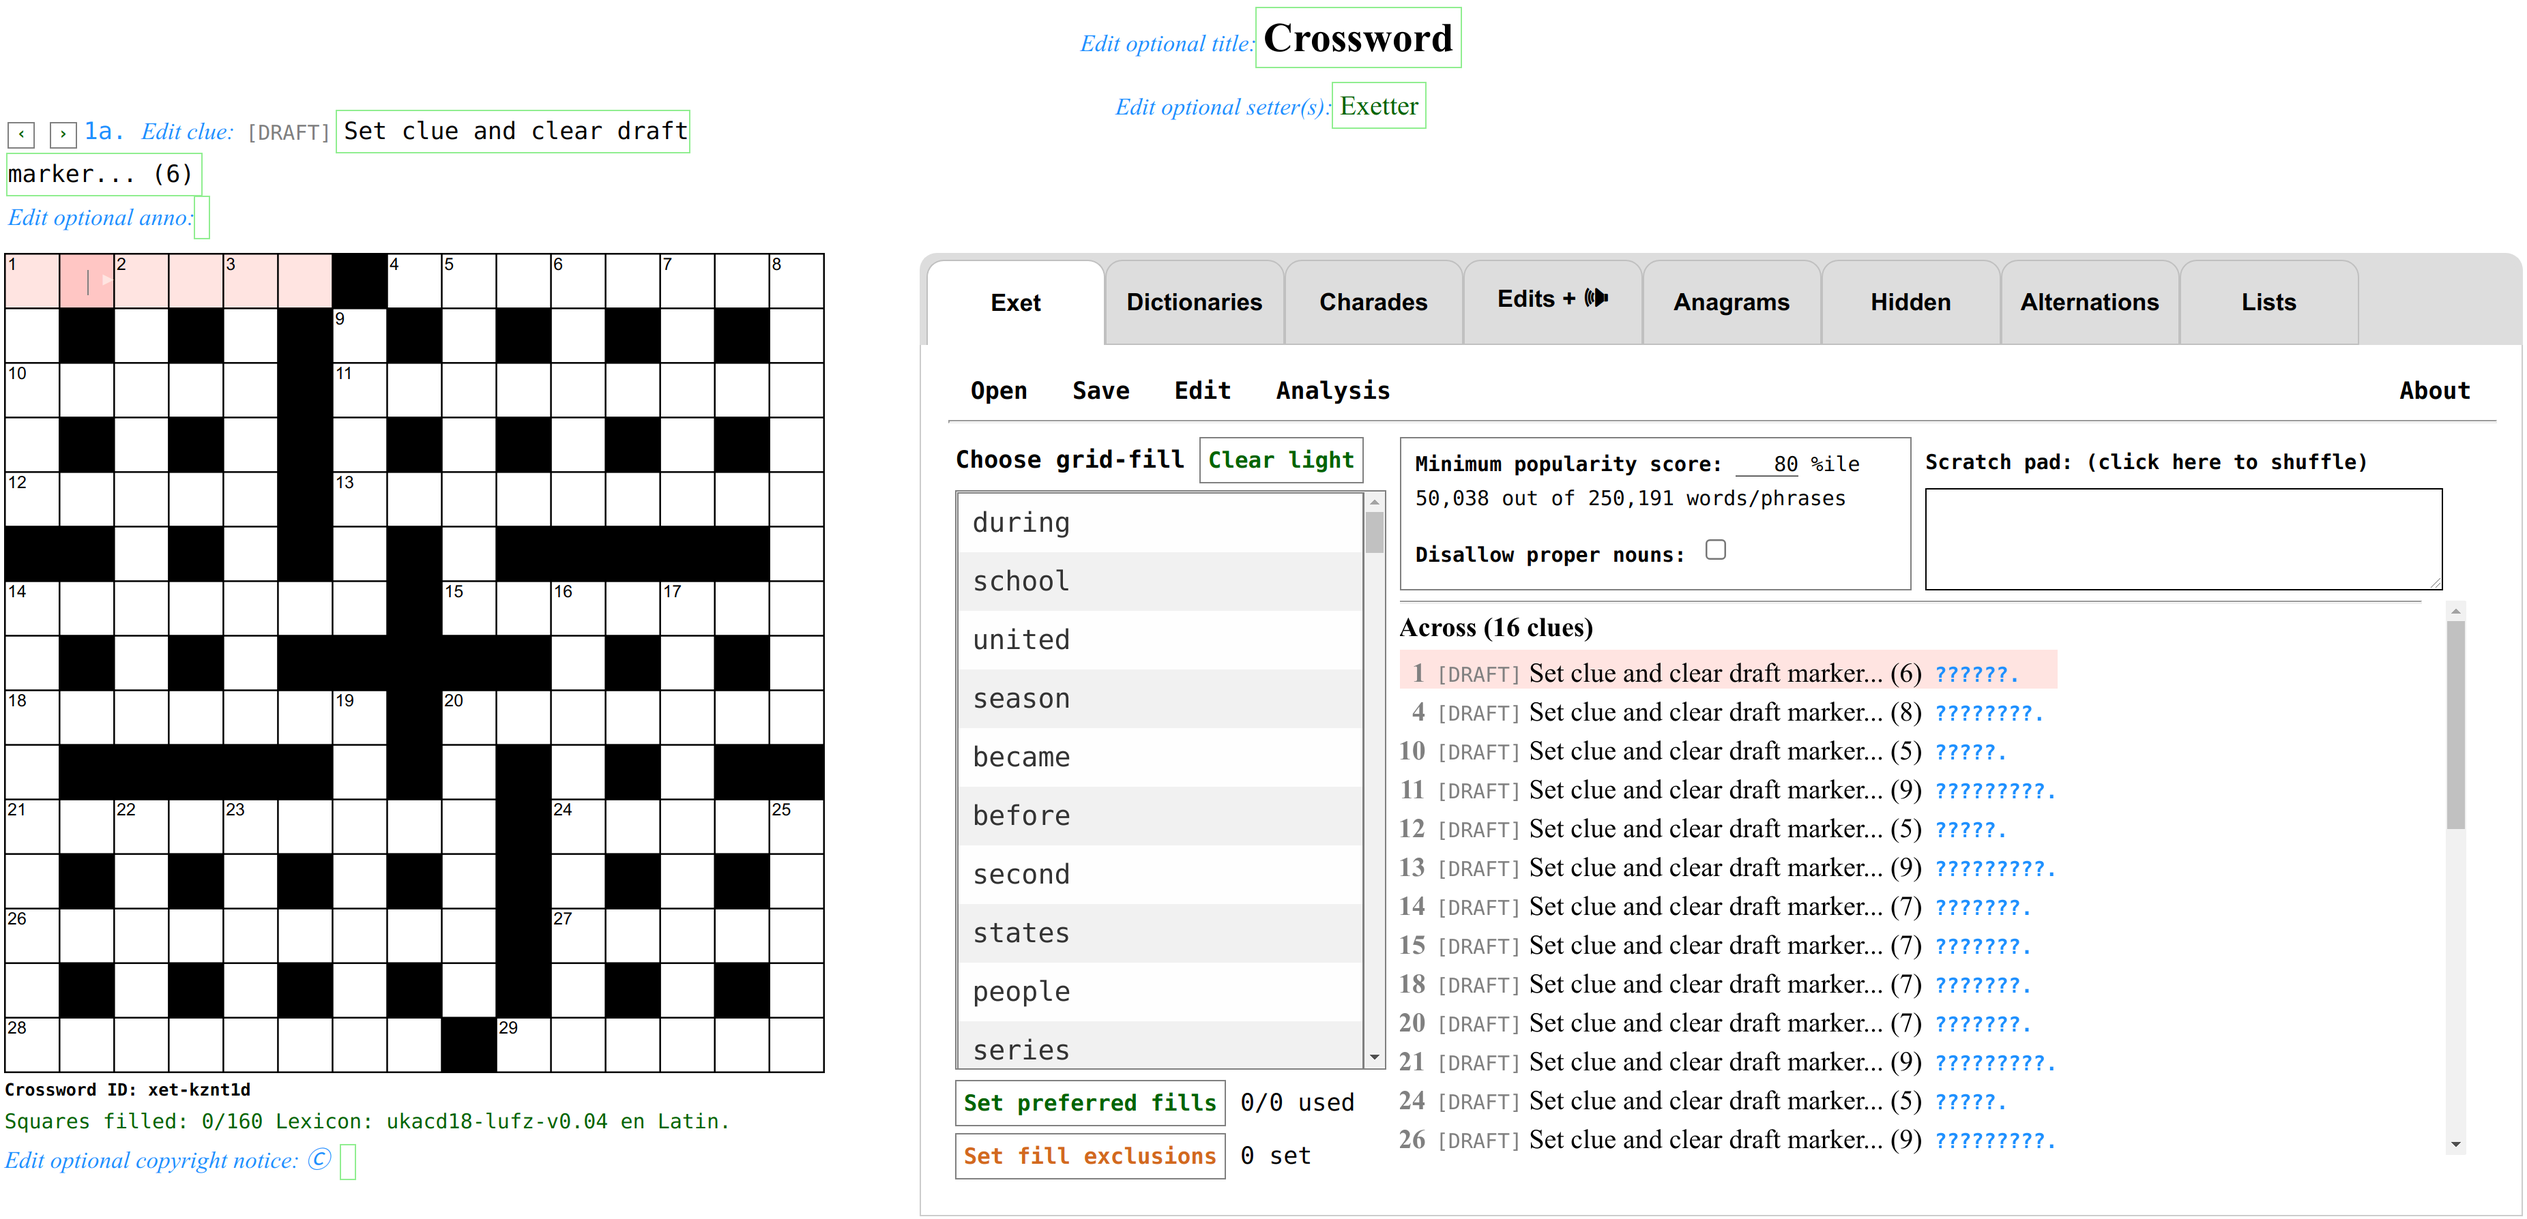
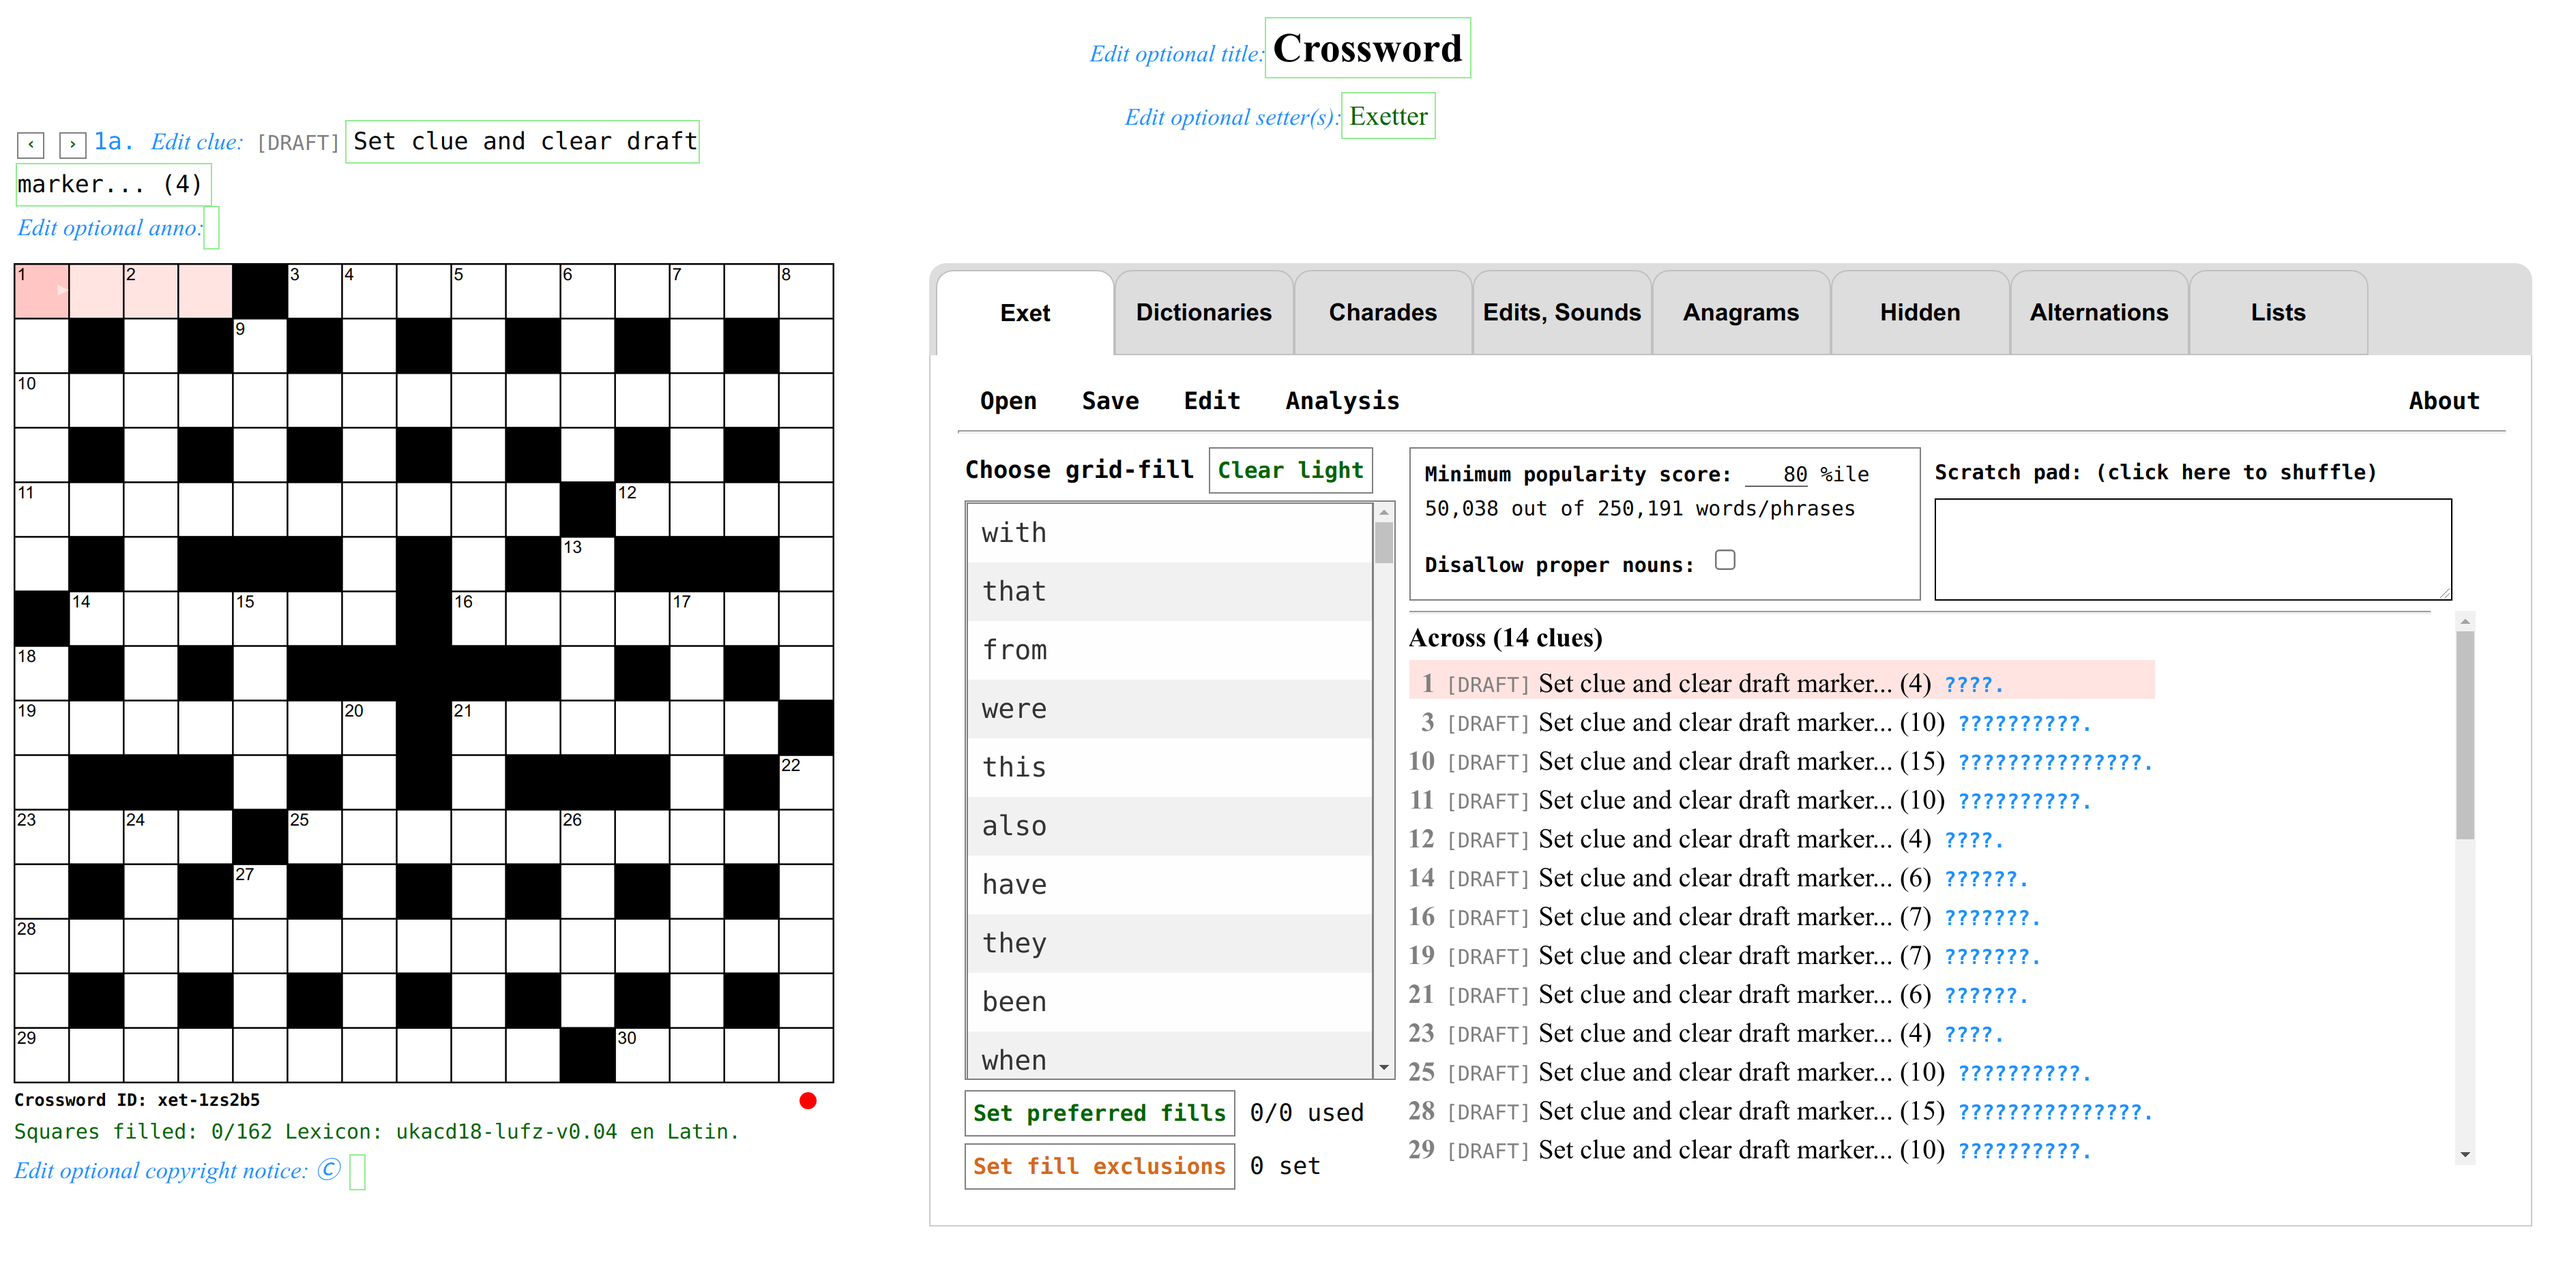
v0.54
### Version: Exet v0.54 August 25 2021

- Make clues and clue linkages survive grid changes (with renumbering
  as needed) if their constituent cells have remained intact.
- Rename tab to 'Edits, Sounds' to avoid the speaker emoji.
- Allow creating .PUZ even when there are linked clues.
- Rename '-solved.html' and '-unsolved.html' to '-with-solutions.html'
  and '-sans-solutions.html' respectively.
- Show grid warnings in red in Analysis.
- Add a grid warning in Analysis if there are lights that have too
  many unches in a blocked grid.

diff --git a/exet.html b/exet.html
@@ -29,7 +29,7 @@ SOFTWARE.
 The latest code and documentation for Exet can be found at:
 https://github.com/viresh-ratnakar/exet
 
-Current version: v0.53 August 21 2021
+Current version: v0.54 August 25 2021
 -->
 
 <link rel="stylesheet" type="text/css" href="exolve-m.css?v1.00"/>
@@ -1247,7 +1247,7 @@ function ExetRev(id, title, revNum, revType, timestamp, details="") {
 };
 
 function Exet() {
-  this.version = 'v0.53 August 21 2021'
+  this.version = 'v0.54 August 25 2021'
   this.puz = null
   this.prefix = ''
   this.suffix = ''
@@ -1524,7 +1524,7 @@ Exet.prototype.setPuzzle = function(puz) {
     },
     "wordplay2": {
       id: "wordplay2",
-      display: "Edits + &#x1F56A;",
+      display: "Edits, Sounds",
       hover: "Edits (deletions, insertions, and substitutions), " +
              "Homophones, Spoonerisms",
       sections: [
@@ -1896,10 +1896,10 @@ Exet.prototype.makeExetTab = function() {
           <hr>
           <div class="xet-dropdown-item" onclick="exet.download(true)">
               Download Exolve file with solutions<br>(exet-exolve-<span
-                  class="xet-filetitle"></span>-solved.html)</div>
+                  class="xet-filetitle"></span>-with-solutions.html)</div>
           <div class="xet-dropdown-item" onclick="exet.download(false)">
               Download Exolve file without solutions<br>(exet-exolve-<span
-                  class="xet-filetitle"></span>-unsolved.html)</div>
+                  class="xet-filetitle"></span>-sans-solutions.html)</div>
           <div class="xet-dropdown-item" onclick="exet.downloadDotPuz()">
               Download PUZ file<br>
               (exet-<span class="xet-filetitle"></span>.puz)
@@ -2630,11 +2630,13 @@ Exet.prototype.getLightInfos = function() {
       let lexl = exetLexicon.lexicon.length
       let index = lexl
       let fillClue = this.fillState.clues[ci]
+      let solText = theClue.solution;
       if (fillClue && fillClue.lChoices.length == 1) {
         index = fillClue.lChoices[0]
+        solText = exetLexicon.lexicon[index];
       }
       let pop = 5 * Math.round(20 * (lexl - index) / lexl)
-      label += ': ' + exetLexicon.lexicon[index]
+      label += ': ' + solText;
       this.addStat(allInfo.popularities, pop, label)
       this.addStat(dirInfo.popularities, pop, label)
     }
@@ -2697,12 +2699,12 @@ Exet.prototype.updateAnalysis = function(elt) {
   let h = this.puz.gridHeight
   html = html + `<li>${w*h} cells, dimensions: ${w} &times; ${h}</li>`
   if (!this.gridConnected(grid, w, h)) {
-    html += '<li><i>Does not have all light cells connected</i></li>'
+    html += '<li class="xet-red"><i>Does not have all light cells connected</i></li>'
   } else {
     html += '<li>All light cells are connected</li>'
   }
   if (!this.gridSymmetric(grid, w, h)) {
-    html += '<li><i>Not symmetric</i></li>'
+    html += '<li class="xet-red"><i>Not symmetric</i></li>'
   } else {
     html += '<li>Symmetric</li>'
   }
@@ -2721,10 +2723,13 @@ Exet.prototype.updateAnalysis = function(elt) {
   }
   if (this.gridUnchequeredOK(grid, w, h, false)) {
     html += '<li>Every light cell is checked</li>'
-  } else  if (this.gridChequeredOK(grid, w, h, false)) {
+  } else  if (this.gridChequeredOK(grid, w, h, false, false)) {
     html += '<li>No consecutive unches</li>'
+    if (!this.gridChequeredOK(grid, w, h, false, true)) {
+      html += '<li class="xet-red"><i>Some lights shorter than 9 letters have &gt;50% unches</i></li>'
+    }
   } else {
-    html += '<li><i>Has consecutive unches</i></li>'
+    html += '<li class="xet-red"><i>Has consecutive unches</i></li>'
   }
   html += '</ul></p>'
 
@@ -4108,14 +4113,21 @@ Exet.prototype.getDotPuz = function() {
     let clueLens = []
     for (let ci of orderedClueIndices) {
       let theClue = this.puz.clues[ci]
-      if (theClue.parentClueIndex) {
-        throw 'This puzzle has linked clues';
-      }
       const startOffset = offset;
       clueOffsets.push(startOffset);
-      offset = this.enc8859(this.showClue(
-            theClue.clueSpan.innerText.replace(/\s+/g,' '),
-        false, exetState.showEnums), buffer, offset);
+      let puzClue = this.showClue(
+          theClue.clueSpan.innerText.replace(/\s+/g,' '),
+          false, exetState.showEnums);
+      if (theClue.children.length > 0) {
+        let chI = theClue.displayLabel.indexOf(',');
+        if (chI >= 0) {
+          const chLabel = theClue.displayLabel.substr(chI + 1).trim();
+          if (chLabel) {
+            puzClue = '(+'+ chLabel + ') ' + puzClue;
+          }
+        }
+      }
+      offset = this.enc8859(puzClue, buffer, offset);
       clueLens.push(offset - startOffset);
       buffer[offset++] = 0
     }
@@ -5250,7 +5262,8 @@ Exet.prototype.gridNumBars = function(grid, w, h) {
   return count
 }
 
-Exet.prototype.gridChequeredOK = function(grid, w, h, checkStrict=true) {
+Exet.prototype.gridChequeredOK = function(
+      grid, w, h, checkSpanLen=true, checkUnchFrac=true) {
   let crossers = new Array(h)
   for (let i = 0; i < h; i++) {
     crossers[i] = new Array(w)
@@ -5278,7 +5291,7 @@ Exet.prototype.gridChequeredOK = function(grid, w, h, checkStrict=true) {
   for (let i = 0; i < h; i++) {
     let spans = this.gridAcrossSpans(grid, w, i)
     for (let span of spans) {
-      if (checkStrict && span[1] < minSpan) {
+      if (checkSpanLen && span[1] < minSpan) {
         return false
       }
       let numChecked = 0
@@ -5290,7 +5303,7 @@ Exet.prototype.gridChequeredOK = function(grid, w, h, checkStrict=true) {
       if (numUnches > numChecked + 1) {
         return false
       }
-      if (checkStrict && numUnches == numChecked + 1 && numUnches < 5) {
+      if (checkUnchFrac && numUnches == numChecked + 1 && numUnches < 5) {
         return false
       }
     }
@@ -5298,7 +5311,7 @@ Exet.prototype.gridChequeredOK = function(grid, w, h, checkStrict=true) {
   for (let j = 0; j < w; j++) {
     let spans = this.gridDownSpans(grid, h, j)
     for (let span of spans) {
-      if (checkStrict && span[1] < minSpan) {
+      if (checkSpanLen && span[1] < minSpan) {
         return false
       }
       let numChecked = 0
@@ -5310,7 +5323,7 @@ Exet.prototype.gridChequeredOK = function(grid, w, h, checkStrict=true) {
       if (numUnches > numChecked + 1) {
         return false
       }
-      if (checkStrict && numUnches == numChecked + 1 && numUnches < 5) {
+      if (checkUnchFrac && numUnches == numChecked + 1 && numUnches < 5) {
         return false
       }
     }
@@ -5318,7 +5331,7 @@ Exet.prototype.gridChequeredOK = function(grid, w, h, checkStrict=true) {
   return true
 }
 
-Exet.prototype.gridUnchequeredOK = function(grid, w, h, checkStrict=true) {
+Exet.prototype.gridUnchequeredOK = function(grid, w, h, checkSpanLen=true) {
   let crossers = new Array(h)
   for (let i = 0; i < h; i++) {
     crossers[i] = new Array(w)
@@ -5340,7 +5353,7 @@ Exet.prototype.gridUnchequeredOK = function(grid, w, h, checkStrict=true) {
       }
     }
   }
-  if (!checkStrict) {
+  if (!checkSpanLen) {
     return true
   }
   const minSpan = 3
@@ -6265,23 +6278,96 @@ Exet.prototype.handleGridInput = function(revType=null) {
   return needsUpdate
 }
 
+Exet.prototype.remapDisplayLabel = function(displayLabel, labelMap) {
+  let s = 0;
+  let mapped = '';
+  while (s < displayLabel.length) {
+    let c = displayLabel.charAt(s++);
+    if (c < '0' || c > '9') {
+      mapped += c;
+      continue;
+    }
+    let old = '' + c;
+    while (s < displayLabel.length &&
+           ((c = displayLabel.charAt(s)) >= '0' && c <= '9')) {
+      old += c;
+      s++;
+    }
+    if (labelMap[old]) mapped += labelMap[old];
+    else mapped += old;
+  }
+  return mapped;
+}
+
 Exet.prototype.killInvalidatedClues = function(row, col) {
-  const tempId = this.puz.id + '-temp'
-  const specs = this.getExolve(tempId, true)
-  const xetTemp = document.getElementById("xet-temp")
-  xetTemp.innerHTML = ''
-  const newPuz = new Exolve(specs, "xet-temp", null, false, 0, 0, false)
+  const tempId = this.puz.id + '-temp';
+  const specs = this.getExolve(tempId, true /*skipClues*/);
+  const xetTemp = document.getElementById("xet-temp");
+  xetTemp.innerHTML = '';
+  const newPuz = new Exolve(specs, "xet-temp", null, false, 0, 0, false);
+  // First build a map of cell-lists to new-clue-index
+  const cellsToIndex = {};
+  for (let ci in newPuz.clues) {
+    const ckey = JSON.stringify(newPuz.clues[ci].cells);
+    cellsToIndex[ckey] = ci;
+  }
+  const getsRelocated = {};  // Keys are clue indices from the old grid
+  const isRelocated = {};  // Keys are clue indices from the new grid
   for (let ci in this.puz.clues) {
-    if (!newPuz.clues[ci] ||
-        !newPuz.sameCells(newPuz.clues[ci].cells, this.puz.clues[ci].cells)) {
-      const theClue = this.puz.clues[ci];
-      if (theClue.parentClueIndex) {
-        this.unlinkClue(theClue.parentClueIndex);
-      } else if (theClue.childrenClueIndices &&
-                 theClue.childrenClueIndices.length > 0) {
-        this.unlinkClue(ci);
+    const ckey = JSON.stringify(this.puz.clues[ci].cells);
+    if (!cellsToIndex[ckey]) continue;
+    const newCi = cellsToIndex[ckey];
+    getsRelocated[ci] = newCi;
+    isRelocated[newCi] = Object.assign({}, this.puz.clues[ci]);
+  }
+  // Preserve linked clues, if possible
+  for (let ci in this.puz.clues) {
+    const oldClue = this.puz.clues[ci];
+    if (!oldClue.children || !oldClue.children.length) continue;
+    const oldList = this.puz.getLinkedClues(ci);
+    console.assert(oldList.length > 1 && oldList[0] == ci, oldList);
+    let allMatch = true;
+    for (let cci of oldList) {
+      if (!getsRelocated[cci]) {
+        allMatch = false;
+        break;
       }
-      delete this.puz.clues[ci]
+    }
+    if (!allMatch) {
+      for (let cci of oldList) {
+        if (!getsRelocated[cci]) {
+          continue;
+        }
+        const newCi = getsRelocated[cci];
+        delete getsRelocated[cci];
+        delete isRelocated[newCi];
+      }
+    }
+  }
+  for (let ci in this.puz.clues) {
+    if (!getsRelocated[ci] && !this.isDraftClue(this.puz.clues[ci].clue)) {
+      console.log('Non-draft clue ' + ci + ' got deleted: ' +
+                  this.puz.clues[ci].clue);
+    }
+  }
+  const labelMap = {};
+  for (let ci in getsRelocated) {
+    labelMap[ci.substr(1)] = getsRelocated[ci].substr(1);
+  }
+  this.puz.clues = {};
+  for (let newCi in isRelocated) {
+    this.puz.clues[newCi] = this.puz.newClue(newCi);
+    const theClue = this.puz.clues[newCi];
+    const oldClue = isRelocated[newCi];
+    theClue.displayLabel = this.remapDisplayLabel(oldClue.displayLabel, labelMap);
+    theClue.clue = oldClue.clue;
+    theClue.anno = oldClue.anno;
+    theClue.solution = oldClue.solution;
+    if (oldClue.parentClueIndex) {
+      console.assert(getsRelocated[oldClue.parentClueIndex], oldClue);
+      theClue.parentClueIndex = getsRelocated[oldClue.parentClueIndex];
+      // Update "See XX"
+      theClue.clue = this.remapDisplayLabel(oldClue.clue, labelMap);
     }
   }
   xetTemp.innerHTML = ''

diff --git a/about-exet.html b/about-exet.html
@@ -24,7 +24,7 @@ a {
 <center>
 <h1>Exet</h1>
 <h3>A web app for crossword construction</h3>
-<h4>Version: Exet v0.53 August 21 2021</h4>
+<h4>Version: Exet v0.54 August 25 2021</h4>
 <h4>Software by Viresh Ratnakar</h4>
 <h3 title="Click to open Exet's README.md file in a new tab">
 <a target="_blank"

diff --git a/README.md b/README.md
@@ -2,7 +2,7 @@
 
 ## A web app for crossword construction
 
-#### Version: Exet v0.53 August 21 2021
+#### Version: Exet v0.54 August 25 2021
 
 #### Author: Viresh Ratnakar
 
@@ -309,6 +309,16 @@ if you change the setting, depending on some browser peculiarities, the
 updated setting may only become active after you have navigated to a new
 clue and/or clicked on the clue or anno.
 
+##### Modifying the grid after some clues have been provided
+
+If you make changes to the grid (such as adding/removing blocks/bars) that
+result in a modified numbering of clues, any clues or annotations that you
+may already have provided, for lights that survive the grid changes, will
+remain intact. This is the case even when their clue numbers get modified
+because of the grid changes. Moreover, any linked clues that you may have
+created will survive (with automatic renumbering if needed), as long as
+all the lights involved survive the grid change.
+
 #### Formatting clues and annotations
 
 Note that when editing the current clue or annotation, you are working with
@@ -451,13 +461,14 @@ following, \<title\> in a filename stands for the puzzle title.
   Note also that when exporting the crossword in the .puz format, any rich
   formatting in clues will get stripped out as the .puz format does not support
   it (.puz does not support annotations either).
-- **Download Exolve file with solutions (exet-exolve-\<title\>-solved.html)**:
+- **Download Exolve file with solutions
+  (exet-exolve-\<title\>-with-solutions.html)**:
   Download an HTML file that uses Exolve and that allows solvers to check/see
   solutions.  Such files can also be opened by Exet from the "Open" menu and
   can be further edited. This might be useful, for example, when you want to
   edit an old crossword that you have deleted from Exet's limited local storage.
 - **Download Exolve file without solutions
-  (exet-exolve-\<title\>-unsolved.html)**:
+  (exet-exolve-\<title\>-sans-solutions.html)**:
   Download an HTML file that uses Exolve and does not allow solvers to check/see
   solutions.
 - **Copy Exolve widget code with solutions 📋**: Copy (into the clipboard)

diff --git a/CHANGELOG.md b/CHANGELOG.md
@@ -1,5 +1,17 @@
 # Changelog
 
+### Version: Exet v0.54 August 25 2021
+
+- Make clues and clue linkages survive grid changes (with renumbering
+  as needed) if their constituent cells have remained intact.
+- Rename tab to 'Edits, Sounds' to avoid the speaker emoji.
+- Allow creating .PUZ even when there are linked clues.
+- Rename '-solved.html' and '-unsolved.html' to '-with-solutions.html'
+  and '-sans-solutions.html' respectively.
+- Show grid warnings in red in Analysis.
+- Add a grid warning in Analysis if there are lights that have too
+  many unches in a blocked grid.
+
 ### Version: Exet v0.53 August 21 2021
 
 - When getting pronunciations, even if you've found something, still

diff --git a/TODO.md b/TODO.md
@@ -5,7 +5,9 @@
 - "Smart-delete" to purge excessive revisions
 - When the clue has an enum like (4-3), only show fill choices consistent with that: so, (2-2-3) will also OK, and for (9), (4,5) will also be OK.
 
-- Intercept ctrl-q/Q before they reach Exolve
+- Show unches distribution [Instead, done: Show warning in analysis]
+- Reassign clue numbers, preserving clues if possible [Done]
+- Intercept ctrl-q/Q before they reach Exolve [Done]
 - Bulk-save [Done]
 - Check why * after enum disappears when a file with enums hidden is loaded [Done]
 - Is enum hiding working in print/pdf? [Done]
